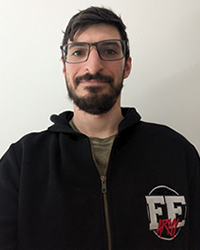
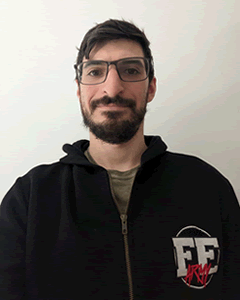
added animation to the about section.

Changed region(s): [[0.0, 0.0, 1.0, 0.784], [0.72, 0.728, 0.93, 0.98]]

diff --git a/src/css/expandReveal.scss b/src/css/expandReveal.scss
@@ -1,0 +1,115 @@
+@property --h-expand-progress {
+  syntax: "<number>";
+  inherits: true;
+  initial-value: 0;
+}
+
+@property --v-expand-progress {
+  syntax: "<number>";
+  inherits: true;
+  initial-value: 0;
+}
+
+:root {
+  --h-expand-progress: 0;
+  --v-expand-progress: 0;
+}
+
+.expand-reveal {
+  position: relative;
+  padding: 0.5rem;
+
+  &.expand-active {
+    animation: expand-h 0.6s ease forwards, expand-v 0.6s ease 0.6s forwards;
+
+    &::before {
+      opacity: 0;
+      transition: opacity 0.3s ease 1.2s;
+    }
+
+    .expand-reveal-content {
+      animation: flicker 0.3s steps(4, start) 1s forwards;
+    }
+  }
+
+  &::before {
+    content: '';
+    inset: 0;
+    position: absolute;
+    background:
+      conic-gradient(
+        from 90deg at top 1px left 1px,
+        transparent 90deg,
+        var(--red) 0
+      )
+      calc(50% + (var(--h-expand-progress) * 1% / 2) + 4px * (1 - var(--h-expand-progress) / 100))
+      calc(50% + (var(--v-expand-progress) * 1% / 2) + 4px * (1 - var(--v-expand-progress) / 100))
+      /8px 8px border-box no-repeat,
+
+      conic-gradient(
+        from 180deg at top 1px right 1px,
+        transparent 90deg,
+        var(--red) 0
+      )
+      calc(50% - (var(--h-expand-progress) * 1% / 2) - 4px * (1 - var(--h-expand-progress) / 100))
+      calc(50% + (var(--v-expand-progress) * 1% / 2) + 4px * (1 - var(--v-expand-progress) / 100))
+      /8px 8px border-box no-repeat,
+
+      conic-gradient(
+        from 0deg at bottom 1px left 1px,
+        transparent 90deg,
+        var(--red) 0
+      )
+      calc(50% + (var(--h-expand-progress) * 1% / 2) + 4px * (1 - var(--h-expand-progress) / 100))
+      calc(50% - (var(--v-expand-progress) * 1% / 2) - 4px * (1 - var(--v-expand-progress) / 100))
+      /8px 8px border-box no-repeat,
+
+      conic-gradient(
+        from -90deg at bottom 1px right 1px,
+        transparent 90deg,
+        var(--red) 0
+      )
+      calc(50% - (var(--h-expand-progress) * 1% / 2) - 4px * (1 - var(--h-expand-progress) / 100))
+      calc(50% - (var(--v-expand-progress) * 1% / 2) - 4px * (1 - var(--v-expand-progress) / 100))
+      /8px 8px border-box no-repeat;
+  }
+  
+  .expand-reveal-content {
+    opacity: 0;
+  }
+}
+
+@keyframes expand-h {
+  from {
+    --h-expand-progress: 0;
+  }
+  
+  to {
+    --h-expand-progress: 100;
+  }
+}
+
+@keyframes expand-v {
+  from {
+    --v-expand-progress: 0;
+  }
+  
+  to {
+    --v-expand-progress: 100;
+  }
+}
+
+@keyframes flicker {
+  0% {
+    opacity: 0;
+  }
+  33% {
+    opacity: 0.7;
+  }
+  66% {
+    opacity: 0.3;
+  }
+  100% {
+    opacity: 1;
+  }
+}

diff --git a/src/app/home/components/BlogSection/components/BlogpostCard/index.tsx b/src/app/home/components/BlogSection/components/BlogpostCard/index.tsx
@@ -10,23 +10,20 @@ interface Props {
   isHorizontal: boolean;
 }
 
-export const BlogpostCard: React.FC<Props> = ({postSummary, isHorizontal}) => {
-  debugger;
-  return (
-    <Link className={`${styles.post} ${isHorizontal ? styles.postHorizontal : ''}`} href={`/blog/${postSummary.id}`}>
-      <Image width={592} height={333} className={styles.postCover} src={postSummary.cover} alt="" />
-      <div className={styles.postInfo}>
-        <p className={styles.postDate}>{format(postSummary.date,'dd/MM/yyyy')}</p>
-        <h3 className={styles.postTitle}>{postSummary.title}</h3>
-        <p className={styles.postBody}>{postSummary.summary}</p>
-        <div className={`${styles.postAuthor} flex items-center gap-2`}>
-          <Image className={styles.postAuthorAvatar} src={postSummary.author.avatar} width={40} height={40} alt={`${postSummary.author.name}'s avatar`} />
-          <p className={styles.postAuthorName}>{postSummary.author.name}</p>
-        </div>
-        <div className={styles.postReadArrow}>
-          <ChevronSimpleRight className={styles.postReadArrowIcon} />
-        </div>
+export const BlogpostCard: React.FC<Props> = ({postSummary, isHorizontal}) => (
+  <Link className={`${styles.post} ${isHorizontal ? styles.postHorizontal : ''}`} href={`/blog/${postSummary.id}`}>
+    <Image width={592} height={333} className={styles.postCover} src={postSummary.cover} alt="" />
+    <div className={styles.postInfo}>
+      <p className={styles.postDate}>{format(postSummary.date,'dd/MM/yyyy')}</p>
+      <h3 className={styles.postTitle}>{postSummary.title}</h3>
+      <p className={styles.postBody}>{postSummary.summary}</p>
+      <div className={`${styles.postAuthor} flex items-center gap-2`}>
+        <Image className={styles.postAuthorAvatar} src={postSummary.author.avatar} width={40} height={40} alt={`${postSummary.author.name}'s avatar`} />
+        <p className={styles.postAuthorName}>{postSummary.author.name}</p>
       </div>
-    </Link>
-  );
-} 
+      <div className={styles.postReadArrow}>
+        <ChevronSimpleRight className={styles.postReadArrowIcon} />
+      </div>
+    </div>
+  </Link>
+);

diff --git a/src/app/home/components/AboutSection/components/HostCard/index.tsx b/src/app/home/components/AboutSection/components/HostCard/index.tsx
@@ -1,29 +1,35 @@
+"use client";
+
 import { Host } from "@/types/host";
 import Image from "next/image";
 import styles from './styles.module.css';
 import { FontAwesomeIcon } from "@fortawesome/react-fontawesome";
 import { socialsIconMap } from "./utils";
+import { useAnimateOnScroll } from "@/hooks/useRevealOnScroll";
 
 interface Props {
   host: Host
 };
 
 export const HostCard: React.FC<Props> = ({host}) => {
+  const {ref, isVisible} = useAnimateOnScroll({});
   return (
-    <div className={styles.host}>
-      <Image className={styles.hostAvatar} src={host.avatar} alt={`${host.name}'s profile picture`} width={240} height={300} />
-      <div className={styles.hostInfo}>
-        <div className={styles.hostSocials}>
-          {
-            host.socials.map(social =>(
-              <a key={social.url} className={styles.hostSocial} href={social.url} target="_blank" rel="noreferrer">
-                <FontAwesomeIcon icon={socialsIconMap[social.name.toLocaleLowerCase()]} />
-              </a>
-            ))
-          }
+    <div className={`expand-reveal ${isVisible ? "expand-active" : ""}`}>
+      <div ref={ref} className={`${styles.host} expand-reveal-content`}>
+        <Image className={styles.hostAvatar} src={host.avatar} alt={`${host.name}'s profile picture`} width={240} height={300} />
+        <div className={styles.hostInfo}>
+          <div className={styles.hostSocials}>
+            {
+              host.socials.map(social =>(
+                <a key={social.url} className={styles.hostSocial} href={social.url} target="_blank" rel="noreferrer">
+                  <FontAwesomeIcon icon={socialsIconMap[social.name.toLocaleLowerCase()]} />
+                </a>
+              ))
+            }
+          </div>
+          <p className={styles.hostName}>{host.name}</p>
+          <p className={styles.hostDescription}>{host.description}</p>
         </div>
-        <p className={styles.hostName}>{host.name}</p>
-        <p className={styles.hostDescription}>{host.description}</p>
       </div>
     </div>
   );

diff --git a/src/utils/hosts.ts b/src/utils/hosts.ts
@@ -4,6 +4,7 @@ import frankProfile from "@/assets/frank_profile.png";
 import pablitoProfile from "@/assets/pablito_profile.png";
 import luquiProfile from "@/assets/luqui_profile.png";
 import capiProfile from "@/assets/capi_profile.png";
+import tinchoProfile from "@/assets/tincho_profile.png";
 
 export const hosts: Array<Host> = [
   {
@@ -69,7 +70,7 @@ export const hosts: Array<Host> = [
   },
   {
     name: "Martin Callegari",
-    avatar: skolzProfile,
+    avatar: tinchoProfile,
     socials: [
       { name: "Github", url: "https://github.com/mcallegari10" },
       { name: "Twitter", url: "https://twitter.com/TiinchoKaleghar" },
@@ -78,6 +79,7 @@ export const hosts: Array<Host> = [
         url: "https://www.linkedin.com/in/martín-callegari-81a97011b/",
       },
     ],
-    description: "This is the description for Host4.",
+    description:
+      "Experto en casi todo. Gamer y tiro cartones de Pokemon cada tanto. Frontend dev y siguiendo el path de game dev.",
   },
 ];

diff --git a/src/app/home/components/BlogSection/components/BlogpostCard/styles.module.css b/src/app/home/components/BlogSection/components/BlogpostCard/styles.module.css
@@ -67,7 +67,7 @@
 }
 
 .post-date {
-  font-family: 'Montserrat', system-ui, sans-serif;
+  font-family: var(--font-montserrat), system-ui, sans-serif;
   font-size: 0.75rem;
   grid-area: date;
   justify-self: start;
@@ -76,7 +76,7 @@
 }
 
 .post-title {
-  font-family: 'Montserrat', system-ui, sans-serif;
+  font-family: var(--font-montserrat), system-ui, sans-serif;
   font-size: 1.25rem;
   font-weight: 700;
   grid-area: title;
@@ -86,7 +86,7 @@
 
 .post-body {
   grid-area: body;
-  font-family: 'Montserrat', system-ui, sans-serif;
+  font-family: var(--font-montserrat), system-ui, sans-serif;
   line-height: 1.4;
   font-size: 0.875rem;
   font-weight: 300;
@@ -114,7 +114,7 @@
 }
 
 .post-author-name {
-  font-family: 'Montserrat', system-ui, sans-serif;
+  font-family: var(--font-montserrat), system-ui, sans-serif;
   font-size: 0.875rem;
   font-weight: 300;
   white-space: nowrap;

diff --git a/src/css/globals.scss b/src/css/globals.scss
@@ -1,12 +1,12 @@
 @tailwind base;
 @tailwind components;
 @tailwind utilities;
-@import url('https://fonts.googleapis.com/css2?family=Anton&family=Montserrat:wght@200;300;500&display=swap');
 @import "./equalizer.scss";
 @import "./glitch.scss";
 @import "./texts.scss";
 @import "./buttons.scss";
 @import "./animations.scss";
+@import "./expandReveal.scss";
 
 :root {
   --black: #000;

diff --git a/src/app/home/components/Navbar/styles.module.css b/src/app/home/components/Navbar/styles.module.css
@@ -14,7 +14,7 @@
   display: grid;
   grid-template-columns: 1fr 1fr 1fr;
   gap: 4rem;
-  font-family: 'Montserrat', system-ui, sans-serif;
+  font-family: var(--font-montserrat), system-ui, sans-serif;
   justify-items: center;
 }
 
